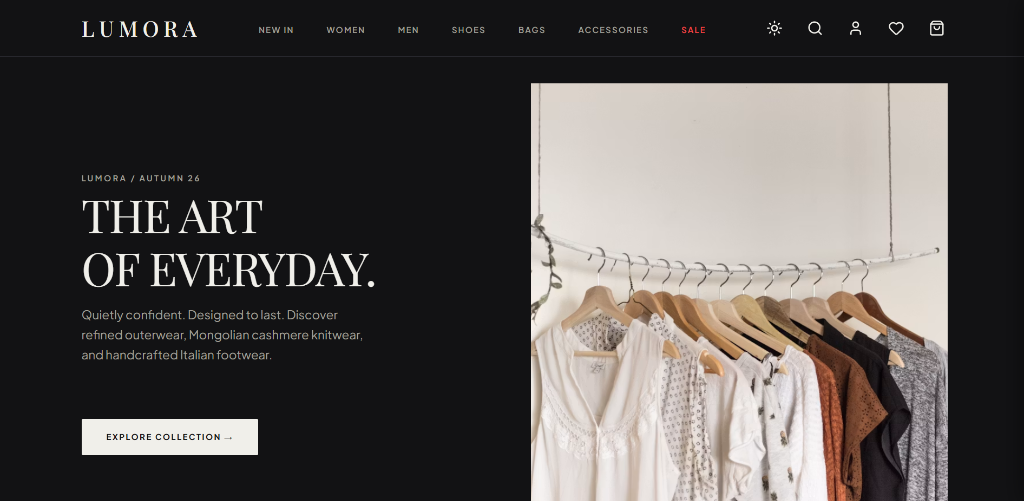
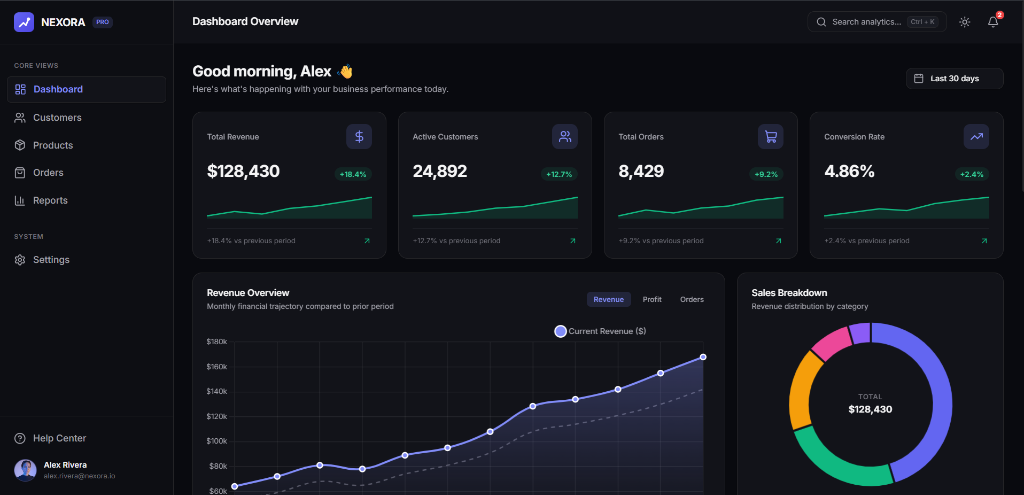
fix: swap nexora and lumora screenshots and align browser hover overflow details

diff --git a/css/style.css b/css/style.css
@@ -745,6 +745,12 @@ a[href*="#works"]:hover .arrow {
   box-shadow: 0 35px 60px -15px rgba(17, 24, 39, 0.15);
 }
 
+.browser-screenshot-container {
+  position: relative;
+  overflow: hidden;
+  width: 100%;
+}
+
 .browser-screenshot {
   width: 100%;
   height: auto;
@@ -756,13 +762,12 @@ a[href*="#works"]:hover .arrow {
 .hover-overlay-hint {
   position: absolute;
   inset: 0;
-  background-color: rgba(23, 37, 84, 0.05);
+  background-color: rgba(23, 37, 84, 0.45);
   display: flex;
   align-items: center;
   justify-content: center;
   opacity: 0;
   transition: var(--transition-fast);
-  border-radius: var(--radius-md);
   pointer-events: none;
   z-index: 10;
 }
@@ -771,8 +776,8 @@ a[href*="#works"]:hover .arrow {
 }
 
 .overlay-badge {
-  background-color: var(--primary-navy);
-  color: var(--surface-color);
+  background-color: var(--surface-color);
+  color: var(--primary-navy);
   font-size: 0.75rem;
   font-weight: 700;
   text-transform: uppercase;
@@ -784,6 +789,7 @@ a[href*="#works"]:hover .arrow {
   gap: 0.35rem;
   transform: translateY(10px);
   transition: var(--transition-smooth);
+  box-shadow: 0 10px 25px -5px rgba(0, 0, 0, 0.1);
 }
 .project-visual-wrapper:hover .overlay-badge {
   transform: translateY(0);

diff --git a/js/projects.js b/js/projects.js
@@ -99,12 +99,14 @@ function renderProjects(filterVal = 'all') {
               <span class="dot green"></span>
               <div class="browser-address">localhost:3000/${proj.id}</div>
             </div>
-            <img src="${proj.screenshot}" alt="${proj.caption}" class="browser-screenshot" loading="lazy">
-          </div>
-          <div class="hover-overlay-hint">
-            <span class="overlay-badge">
-              <i data-lucide="zoom-in" style="width: 14px; height: 14px;"></i> View Screenshot ↗
-            </span>
+            <div class="browser-screenshot-container">
+              <img src="${proj.screenshot}" alt="${proj.caption}" class="browser-screenshot" loading="lazy">
+              <div class="hover-overlay-hint">
+                <span class="overlay-badge">
+                  <i data-lucide="zoom-in" style="width: 14px; height: 14px;"></i> View Screenshot ↗
+                </span>
+              </div>
+            </div>
           </div>
         </div>
 
